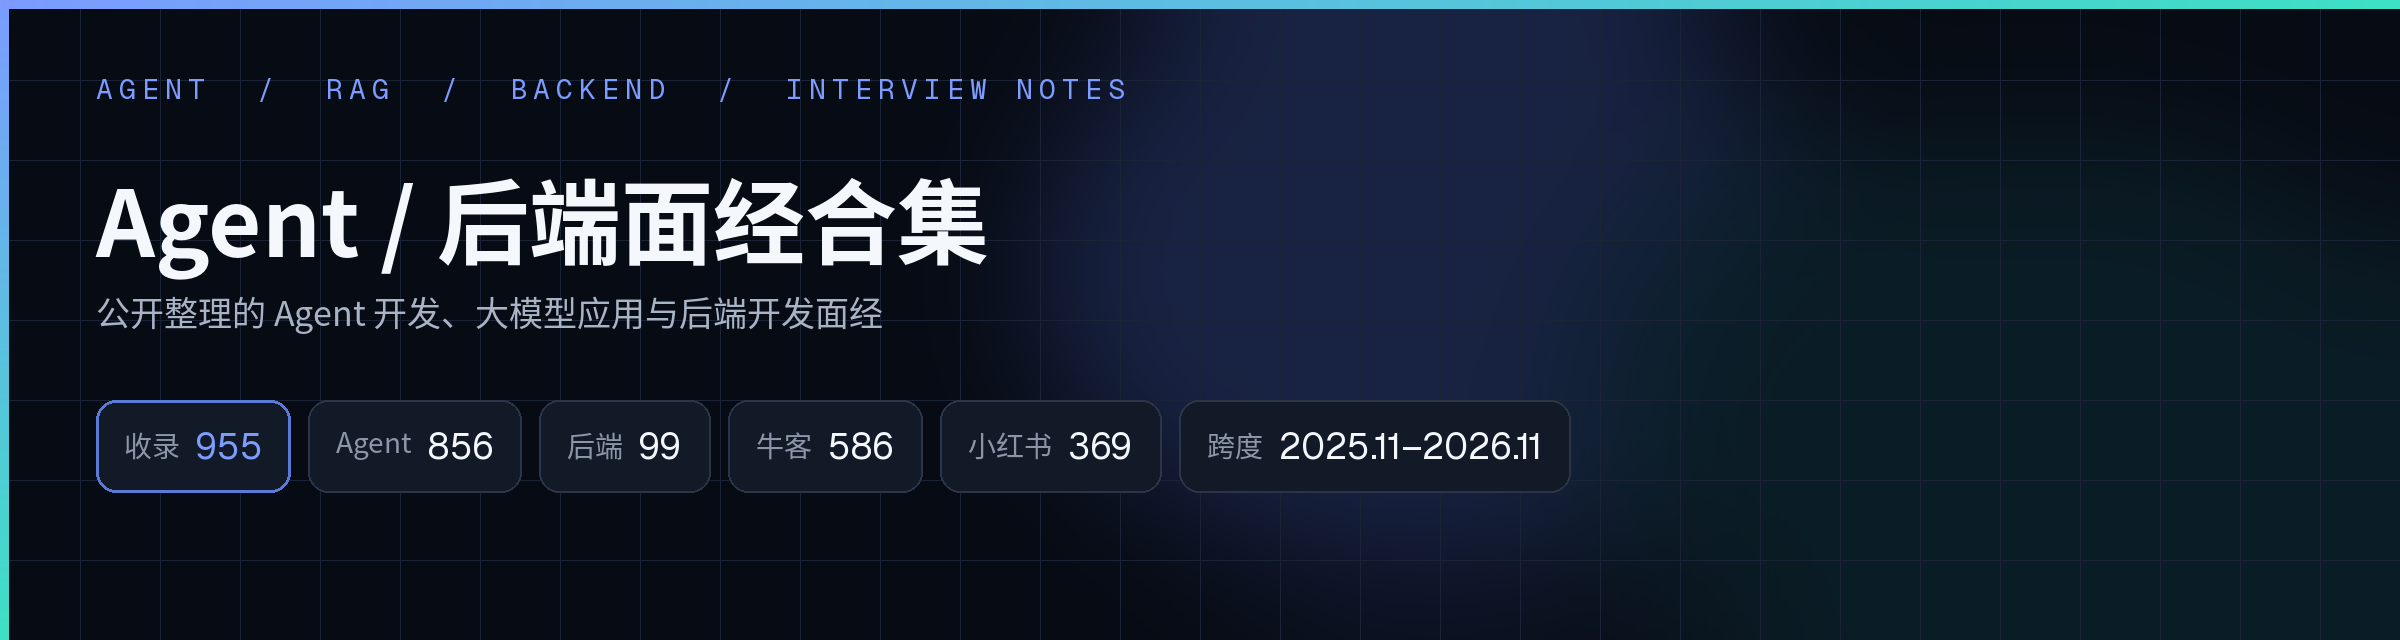
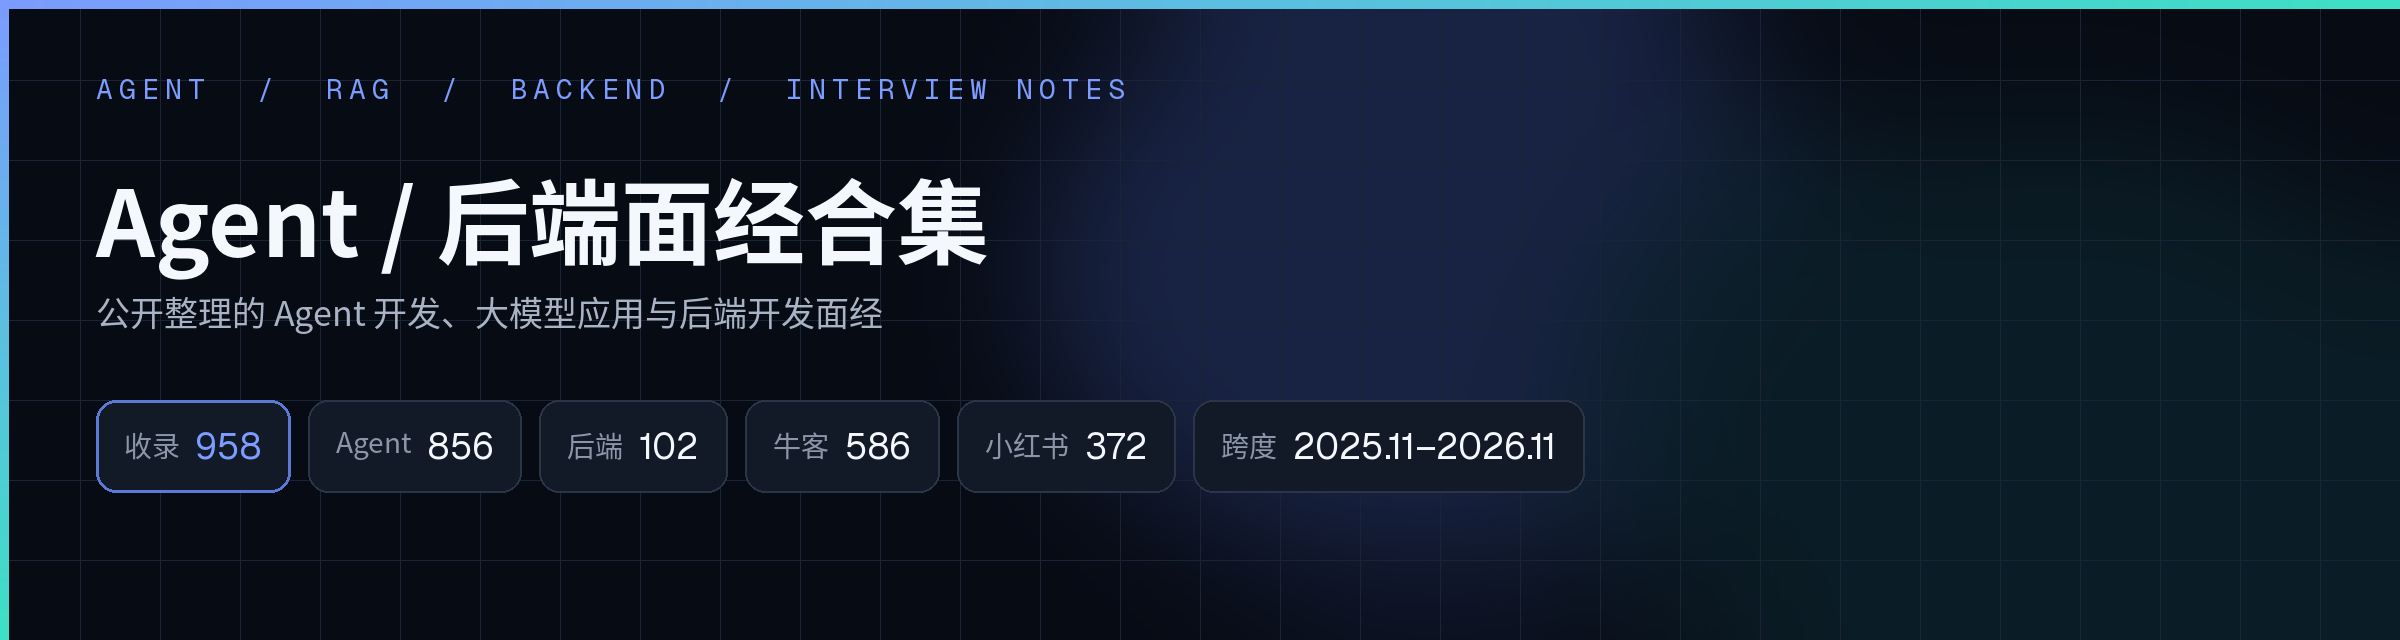
add 3 Xiaohongshu 面经 (易穿鱼袍 bilibili/携程 Java开发一面、dududu 虾皮一面)

Changed region(s): [[0.25, 0.625, 0.6562, 0.7812]]

diff --git a/README.md b/README.md
@@ -21,7 +21,7 @@
 
 | 收录 | Agent / 大模型应用 | 后端 | 来源 | 发帖跨度 |
 | --- | --- | --- | --- | --- |
-| 955 篇 | 856 | 99 | 牛客 586 · 小红书 369 | 2025.11–2026.11 |
+| 958 篇 | 856 | 102 | 牛客 586 · 小红书 372 | 2025.11–2026.11 |
 
 统计与 [`data/index.json`](data/index.json) 及 `agent/`、`backend/` 目录文件一致，随收录更新。本仓库整理已公开的帖子，不声称对每篇都做了独立真伪核验。
 
@@ -924,11 +924,13 @@
 | 2026-10-29 | 启云方一面面经 | [文件](backend/2026-10-29-启云方-软件开发-一面.md) | [原文](https://www.xiaohongshu.com/explore/6ae2f6de000000001c034862) |
 | 2026-10-27 | 字节日常实习全栈开发一面 | [文件](backend/2026-10-27-字节跳动-全栈开发-日常实习-一面.md) | [原文](https://www.xiaohongshu.com/explore/6ae009050000000015022dba) |
 | 2026-10-27 | 快手后端开发一面面经 | [文件](backend/2026-10-27-快手-后端开发-一面.md) | [原文](https://www.xiaohongshu.com/explore/6ae00c46000000001803b980) |
+| 2026-10-27 | bilibili Java开发一面 | [文件](backend/2026-10-27-哔哩哔哩-Java开发-一面.md) | [原文](https://www.xiaohongshu.com/explore/6ae05764000000001401aa18) |
 | 2026-10-26 | 快手一面 | [文件](backend/2026-10-26-快手-Java开发工程师-秋招-一面.md) | [原文](https://www.xiaohongshu.com/explore/6adf5d95000000001803b302) |
 | 2026-10-26 | 宇视科技一面 | [文件](backend/2026-10-26-宇视科技-Java开发-秋招-一面.md) | [原文](https://www.xiaohongshu.com/explore/6adeb3ce000000001200a2e6) |
 | 2026-10-26 | 京东JDY后端一面凉经 | [文件](backend/2026-10-26-京东JDY-后端开发工程师-实习-一面.md) | [原文](https://www.xiaohongshu.com/explore/6adf0ded000000001501255f) |
 | 2026-10-25 | 百度一面面经 | [文件](backend/2026-10-25-百度-一面.md) | [原文](https://www.xiaohongshu.com/explore/6adde682000000002b02b0db) |
 | 2026-10-24 | 值得记录的 AI 面试 | [文件](backend/2026-10-24-卓望数码-全栈开发工程师-秋招-AI面.md) | [原文](https://www.xiaohongshu.com/explore/6adcc184000000002c03ab8b) |
+| 2026-10-24 | 虾皮SZ 一面面经 | [文件](backend/2026-10-24-虾皮-一面.md) | [原文](https://www.xiaohongshu.com/explore/6adca9b5000000003300eb7c) |
 | 2026-10-23 | 10.23小红书ai小工具leader面面经 | [文件](backend/2026-10-23-小红书-AI开放小工具后端开发-实习-二面.md) | [原文](https://www.xiaohongshu.com/explore/6adb59a4000000003101db54) |
 | 2026-10-22 | 百度-后端一面面经 | [文件](backend/2026-10-22-百度-后端-一面.md) | [原文](https://www.xiaohongshu.com/explore/6adac47300000000330219cb) |
 | 2026-10-22 | 腾讯-ieg-三面凉经 | [文件](backend/2026-10-22-腾讯IEG-后端-三面.md) | [原文](https://www.xiaohongshu.com/explore/6ad9ace2000000002c020166) |
@@ -937,6 +939,7 @@
 | 2026-10-21 | 10.21小红书一面面经 | [文件](backend/2026-10-21-小红书-AI开放小工具后端开发-实习-一面.md) | [原文](https://www.xiaohongshu.com/explore/6ad875d7000000003101cc2f) |
 | 2026-10-21 | 偏场景+八股 | [文件](backend/2026-10-21-未具名公司-后端方向.md) | [原文](https://www.xiaohongshu.com/explore/6ad8c572000000002a013d3a) |
 | 2026-10-21 | 通通易联面经 | [文件](backend/2026-10-21-通通易联-后端-一面二面.md) | [原文](https://www.xiaohongshu.com/explore/6ad87b01000000002c030cdb) |
+| 2026-10-21 | 携程Java开发一面 | [文件](backend/2026-10-21-携程-Java开发-一面.md) | [原文](https://www.xiaohongshu.com/explore/6ad83df6000000002b029edf) |
 | 2026-10-20 | 腾讯-ieg-后端一面 | [文件](backend/2026-10-20-腾讯IEG-后端-一面.md) | [原文](https://www.xiaohongshu.com/explore/6ad724cd0000000029011a21) |
 | 2026-10-20 | 腾讯-ieg-后端二面面经 | [文件](backend/2026-10-20-腾讯IEG-后端-二面.md) | [原文](https://www.xiaohongshu.com/explore/6ad8330d000000002a031ee5) |
 | 2026-10-20 | 偏业务追问+深层次八股 | [文件](backend/2026-10-20-未具名公司-后端方向.md) | [原文](https://www.xiaohongshu.com/explore/6ad76ade000000002a00ed12) |

diff --git a/backend/2026-10-24-虾皮-一面.md b/backend/2026-10-24-虾皮-一面.md
@@ -1,0 +1,57 @@
+# 虾皮一面（岗位未注明，内容偏 Java 后端）
+
+> 虾皮（原帖标题写作「虾皮SZ」，这里按公司名记为虾皮，不把 SZ 写成已证实的独立公司名，也不另编部门） · 岗位未注明（报告称 Java 后端方向，不把内容方向写成已证实的正式职位） · 招聘类型未注明 · 一面 · 结果未注明（作者称面试官不尊重人，这不是录用或淘汰结论） · 详情页可见日期为 10-24（未标年份，无「编辑于」标记）；按小红书月日格式和报告的 2026 年时间语境记为 2026-10-24，落在收集窗口 2026-08-10 至 2026-11-12 · 作者 dududu · 来源：[小红书](https://www.xiaohongshu.com/explore/6adca9b5000000003300eb7c)
+
+原帖标题为《虾皮SZ 一面面经》。岗位名称、招聘类型和结果在已读材料里未见，不猜测。同作者另有已收的百度一面，不与本篇合并。
+
+## 速览
+
+- **重点**：虾皮一面。岗位名称未注明。下面只整理搜集报告里已经可见的题意摘要，不是逐字原文，也不补答案，更不声称已经覆盖原帖全部题目。报告写这场大约 15 分钟，无反问。已核题意包括：自我介绍；实习项目上线后遇到的线上问题怎么处理；MQ 消息乱序导致下游状态不一致怎么解决；AI Coding 的代码 AI 率大概多少，怎么使用 AI 写代码，怎么保证输出质量；仓库里 Agent.md、Skill.md 的作用；项目开发使用什么编程语言；了不了解 C++ 智能指针；进程间通信有哪些方式；TCP 是可靠传输吗，UDP 呢，了解不了解 QUIC，UDP 对比 TCP 的优势；TCP 三次握手的原因，两次为什么不行；堆和栈的区别；对 Transformer 的理解，QKV 是什么；Java 的 GC，堆内存分哪些区域，有哪些垃圾回收算法和收集器；为什么不选择读研；手撕最长有效括号。作者称面试官不尊重人，这不是录用或淘汰结论，结果仍记为未注明。本帖只见一面这一场，不拆文件，也不另编未见轮次。
+- **难度**：虾皮一面（内容偏 Java 后端，岗位名称未注明）。发帖日期依据：详情页可见 10-24，未标年份，无「编辑于」标记，按小红书月日格式和报告 2026 语境记为 2026-10-24。
+- **题量**：仅按报告可见摘要整理，不把未见细节补成题目，也不声称全题已核。
+
+## 面经正文
+
+以下只整理搜集报告中已经看到的题意，不是逐字原文，也不补答案。只写这一场一面，不拆、不与同作者已收篇合并。
+
+### 一面
+
+报告写这场大约 15 分钟，无反问。已读材料没有另写实际面试日期。
+
+自我介绍。
+
+实习项目上线后遇到的线上问题，怎么处理。
+
+MQ 消息乱序导致下游状态不一致，怎么解决。
+
+AI Coding 的代码 AI 率大概多少；怎么使用 AI 写代码；怎么保证输出质量。
+
+仓库里 Agent.md、Skill.md 的作用。可见题意含 Agent 相关文件，不把未写明的岗位改成 Agent。
+
+项目开发使用什么编程语言。
+
+了不了解 C++ 智能指针。
+
+进程间通信有哪些方式。
+
+TCP 是可靠传输吗；UDP 呢；了解不了解 QUIC；UDP 对比 TCP 的优势。
+
+TCP 三次握手的原因；两次为什么不行。
+
+堆和栈的区别。
+
+对 Transformer 的理解；QKV 是什么。
+
+Java 的 GC；堆内存分哪些区域；有哪些垃圾回收算法和收集器。
+
+为什么不选择读研。
+
+手撕：最长有效括号。报告未展开题面或解法，这里不补。
+
+作者称面试官不尊重人。这是作者对面试体验的概括，不是录用或淘汰结论，结果仍记为未注明。
+
+以上只保留报告已核题意，不补实现细节或作答。已读材料未见最终录用或淘汰结论，结果未注明。招聘类型和正式岗位名称也未注明。
+
+---
+
+收录于 2026-11-25 · 本文为依据搜集报告可见摘要的整理，非正式原文转载。版权归原作者所有，如有侵权请提 Issue 删除。

diff --git a/backend/2026-10-21-携程-Java开发-一面.md b/backend/2026-10-21-携程-Java开发-一面.md
@@ -1,0 +1,71 @@
+# 携程 Java 开发一面
+
+> 携程 · Java 开发（按原帖标题记录；可见题意含 RAG，不把岗位改成 Agent） · 招聘类型未注明 · 一面 · 结果未注明 · 详情页可见日期为 10-21（未标年份，无「编辑于」标记）；按小红书月日格式和报告的 2026 年时间语境记为 2026-10-21，落在收集窗口 2026-08-10 至 2026-11-12 · 作者 易穿鱼袍 · 来源：[小红书](https://www.xiaohongshu.com/explore/6ad83df6000000002b029edf)
+
+原帖标题为《携程Java开发一面》。招聘类型和结果在已读材料里未见，不猜测。与仓库中其他携程篇、同作者已收篇均为不同原帖，不合并。
+
+## 速览
+
+- **重点**：携程 Java 开发一面。岗位按标题记为 Java 开发。下面只整理搜集报告里已经可见的题意摘要，不是逐字原文，也不补答案，更不声称已经覆盖原帖全部题目。报告写这场大约 1 小时。已核题意包括：自我介绍；简历上的大数据量测试有没有遇到 JVM 层面的问题；JDK 是几，用的是 ZGC，讲一下 ZGC 的流程；checkpoint 容错机制怎么工作；触发时机，以及 metadata 大小怎么确定；简历上方案二和方案一的区别，怎么定位瓶颈并迭代；为什么能从 O(N) 降到 O(1)；怎么说服上游配合改造；count if 退化检测怎么做；能不能检测到未加索引的全表扫描；怎么做慢查询定位和优化；说一个解决过的、印象最深的 bug；什么时候分库，什么时候分表；自定义线程池怎么做，参数怎么设置；两个项目为什么选择两个不同的缓存同步机制；异步双写失败怎么解决；为什么引入 Caffeine；Redis 分布式锁加 Lua 脚本；RAG 检索怎么做的；怎么提高召回率；怎么做的打分；手撕快速排序；反问。本帖只见一面这一场，不拆文件，也不另编未见轮次。
+- **难度**：携程 Java 开发一面。发帖日期依据：详情页可见 10-21，未标年份，无「编辑于」标记，按小红书月日格式和报告 2026 语境记为 2026-10-21。
+- **题量**：仅按报告可见摘要整理，不把未见细节补成题目，也不声称全题已核。
+
+## 面经正文
+
+以下只整理搜集报告中已经看到的题意，不是逐字原文，也不补答案。只写这一场一面，不拆、不与已收篇合并。
+
+### 一面
+
+报告写这场大约 1 小时。已读材料没有另写实际面试日期。
+
+自我介绍。
+
+简历上的大数据量测试，有没有遇到 JVM 层面的问题。
+
+JDK 是几；用的是 ZGC，讲一下 ZGC 的流程。
+
+checkpoint 容错机制怎么工作。
+
+触发时机，以及 metadata 大小怎么确定。
+
+简历上方案二和方案一的区别；怎么定位瓶颈并迭代。
+
+为什么能从 O(N) 降到 O(1)。
+
+怎么说服上游配合改造。
+
+count if 退化检测怎么做。
+
+能不能检测到未加索引的全表扫描。
+
+怎么做慢查询定位和优化。
+
+说一个解决过的、印象最深的 bug。
+
+什么时候分库，什么时候分表。
+
+自定义线程池怎么做；参数怎么设置。
+
+两个项目为什么选择两个不同的缓存同步机制。
+
+异步双写失败怎么解决。
+
+为什么引入 Caffeine。
+
+Redis 分布式锁加 Lua 脚本。
+
+RAG 检索怎么做的。可见题意含 RAG，不把岗位从 Java 开发改成 Agent。
+
+怎么提高召回率。
+
+怎么做的打分。
+
+手撕：快速排序。报告未展开题面或解法，这里不补。
+
+反问。报告未展开反问内容，这里不补。
+
+以上只保留报告已核题意，不补实现细节或作答。已读材料未见最终录用或淘汰结论，结果未注明。招聘类型未注明。
+
+---
+
+收录于 2026-11-25 · 本文为依据搜集报告可见摘要的整理，非正式原文转载。版权归原作者所有，如有侵权请提 Issue 删除。

diff --git a/backend/2026-10-27-哔哩哔哩-Java开发-一面.md b/backend/2026-10-27-哔哩哔哩-Java开发-一面.md
@@ -1,0 +1,59 @@
+# 哔哩哔哩 Java 开发一面
+
+> 哔哩哔哩（原帖标题写作 bilibili，这里按通行公司名记录） · Java 开发（按原帖标题记录；面试中问到实习偏数据开发，不把本帖岗位改成数据开发） · 招聘类型未注明 · 一面 · 结果未注明（作者写面试官和蔼、没怎么深挖，像 KPI，这不是录用或淘汰结论） · 详情页可见日期为 10-27（未标年份，无「编辑于」标记）；按小红书月日格式和报告的 2026 年时间语境记为 2026-10-27，落在收集窗口 2026-08-10 至 2026-11-12 · 作者 易穿鱼袍 · 来源：[小红书](https://www.xiaohongshu.com/explore/6ae05764000000001401aa18)
+
+原帖标题为《bilibili Java开发一面》。招聘类型和结果在已读材料里未见，不猜测。同作者另有已收的小红书数仓 Java 平台开发一面，不与本篇合并。
+
+## 速览
+
+- **重点**：哔哩哔哩 Java 开发一面。岗位按标题记为 Java 开发。下面只整理搜集报告里已经可见的题意摘要，不是逐字原文，也不补答案，更不声称已经覆盖原帖全部题目。报告写这场大约 40 分钟。已核题意包括：自我介绍；实习都做了什么；看你的实习偏数据开发，为什么投这个岗位；硕士阶段干了什么；手撕原地交替反转链表；索引下推是什么；MVCC 的原理；缓存和数据库一致性有哪些方法；一个 SQL 语句从发出到执行经过了什么；InnoDB 支持哪些锁；行级锁和表级锁分别用在哪；DDL 语句有哪些；最近有没有学习开源项目或代码库；对 AI 开发了解多少；平时用哪些 AI 工具；反问。作者写面试官和蔼、没怎么深挖，像 KPI，这不是录用或淘汰结论，结果仍记为未注明。本帖只见一面这一场，不拆文件，也不另编未见轮次。
+- **难度**：哔哩哔哩 Java 开发一面。发帖日期依据：详情页可见 10-27，未标年份，无「编辑于」标记，按小红书月日格式和报告 2026 语境记为 2026-10-27。
+- **题量**：仅按报告可见摘要整理，不把未见细节补成题目，也不声称全题已核。
+
+## 面经正文
+
+以下只整理搜集报告中已经看到的题意，不是逐字原文，也不补答案。只写这一场一面，不拆、不与同作者已收篇合并。
+
+### 一面
+
+报告写这场大约 40 分钟。已读材料没有另写实际面试日期。
+
+自我介绍。
+
+实习都做了什么。
+
+看你的实习偏数据开发，为什么投这个岗位。这是面试追问，不把本帖岗位从 Java 开发改成数据开发。
+
+硕士阶段干了什么。
+
+手撕：原地交替反转链表。报告未展开题面或解法，这里不补。
+
+索引下推是什么。
+
+MVCC 的原理。
+
+缓存和数据库一致性有哪些方法。
+
+一个 SQL 语句从发出到执行经过了什么。
+
+InnoDB 支持哪些锁。
+
+行级锁和表级锁分别用在哪。
+
+DDL 语句有哪些。
+
+最近有没有学习开源项目或代码库。
+
+对 AI 开发了解多少。
+
+平时用哪些 AI 工具。
+
+反问。报告未展开反问内容，这里不补。
+
+作者写面试官和蔼、没怎么深挖，像 KPI。这是作者对面试风格的概括，不是录用或淘汰结论，结果仍记为未注明。
+
+以上只保留报告已核题意，不补实现细节或作答。已读材料未见最终录用或淘汰结论，结果未注明。招聘类型未注明。
+
+---
+
+收录于 2026-11-25 · 本文为依据搜集报告可见摘要的整理，非正式原文转载。版权归原作者所有，如有侵权请提 Issue 删除。
